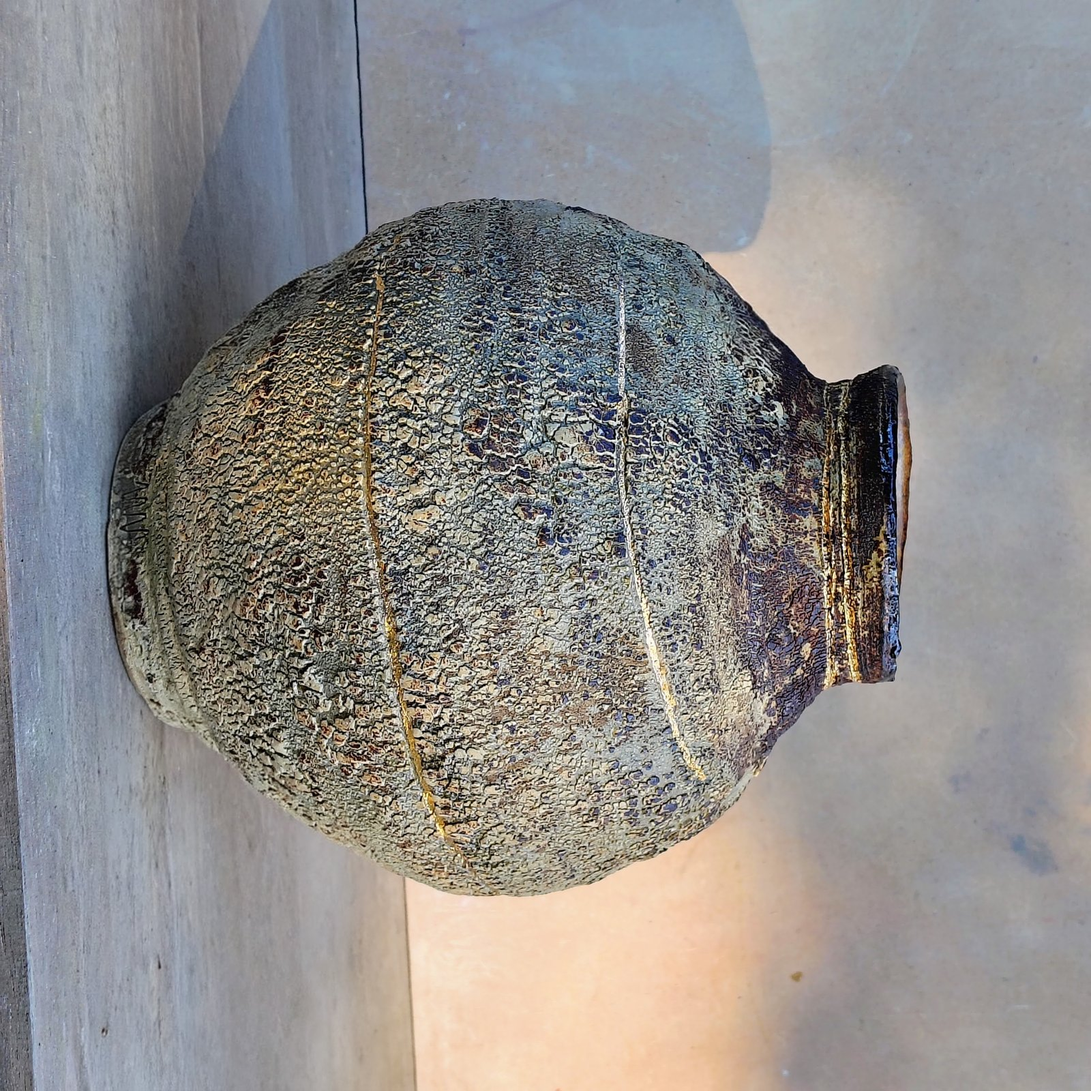
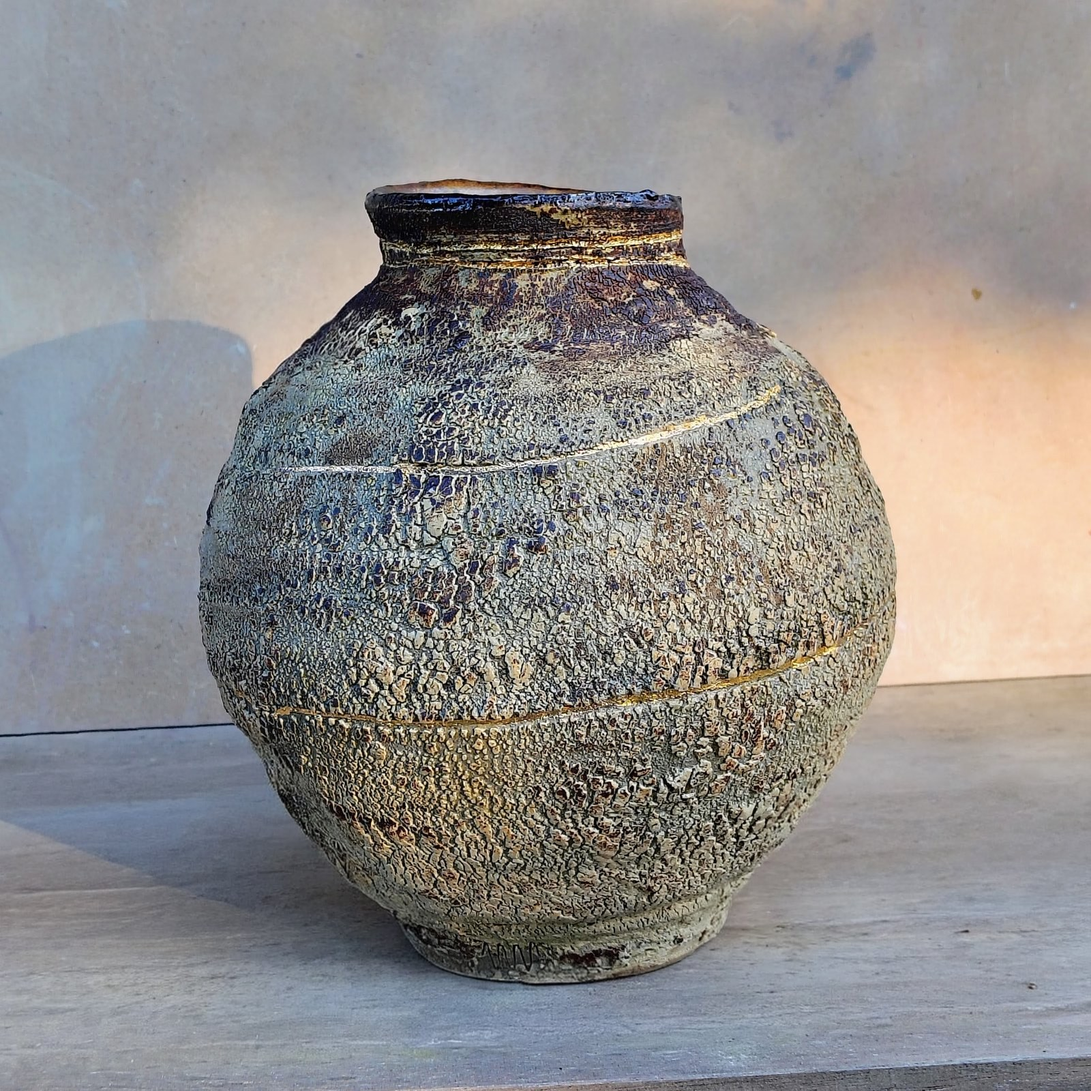
Bannerfoto's toegevoegd, workshopfoto's rechtgezet en per workshop geplaatst

diff --git a/workshops.html b/workshops.html
@@ -55,25 +55,27 @@
   </div>
 </section>
 
-<section class="sectie-lijn">
-  <div class="wrap"><div class="strook"><img src="images/raku-stook.jpg" alt="Raku-stook: roodgloeiende potten uit de oven" loading="lazy"><img src="images/raku-rookton.jpg" alt="Potten in de Raku-rookton" loading="lazy"><img src="images/raku-resultaat.jpg" alt="Resultaat van een Raku-stook" loading="lazy"><img src="images/workshop-textuur.jpg" alt="Draaien met textuur op de draaischijf" loading="lazy"></div></div>
-</section>
-
-<section class="sectie-lijn"><div class="wrap"><div class="tekstblok"><h2>Raku, Obvara en Saggar</h2><p>Breng je bisquit gebakken werkstukken mee om te glazuren en stoken gedurende de workshop (3 stuks, max 20 cm hoog, max 20 cm diameter — meer stukken kunnen als het ovenplaatoppervlak maximaal overeen blijft komen met de 3× diameter 20 cm).</p>
+<section class="sectie-lijn sectie-banner"><div class="banner" style="--beeld:url(images/raku-banner.jpg)"><h2>Raku, Obvara en Saggar</h2></div><div class="wrap"><div class="tekstblok"><p>Breng je bisquit gebakken werkstukken mee om te glazuren en stoken gedurende de workshop (3 stuks, max 20 cm hoog, max 20 cm diameter — meer stukken kunnen als het ovenplaatoppervlak maximaal overeen blijft komen met de 3× diameter 20 cm).</p>
 <p>Als klei kies je best voor een zwaarder gechammotteerde klei (minstens 40% 0,5 mm of 25% 1 mm) of een klei met hoog aluminiumgehalte (bijvoorbeeld door toevoeging van 30% zilverzand). Voor draaiers is de zware chamotte niet altijd even praktisch, maar zorg zeker voor chamotte in je klei, en voor gecomprimeerde randen (laat de laatste beweging bij het draaien een sluitende beweging zijn).</p>
 <p>Voor de personen die zelf geen bisquit gebakken potten beschikbaar hebben, maar zich toch willen onderdompelen in de wondere wereld van Raku, Obvara en Saggar, heb ik potjes beschikbaar aan 10–20 €/stuk al naargelang de grootte.</p><h3>Hoe ziet een typische raku-dag eruit?</h3>
 <p>We starten om 10u met een woordje uitleg over Raku, Obvara en Saggar, gevolgd door het glazuren en voorbereiden van de bisquit gebakken potten. Rond 11u30 gaan de ovens aan, terwijl we lunchen (lunch zelf mee te brengen, of wij voorzien een broodje voor jou aan kostprijs). We stoken de potten tot ongeveer 1000 °C.</p>
 <p>Na het stoken komt het spektakel: de potten worden roodgloeiend uit de oven gehaald en gaan in de Raku-rookton of de Obvara-soep. Alles gebeurt uiteraard buiten (afgelasting mogelijk bij slecht weer). De dag sluiten we af rond 17–18u, afhankelijk van het aantal deelnemers en de grootte van het keramiekwerk.</p>
-<p>Andere formules zijn ook mogelijk, zoals een avondsessie waarbij we — omwille van de beperktere tijd — focussen op Raku. Een avondsessie loopt typisch van 17u30 tot ongeveer 22u.</p></div><ul class="feiten"><li><b>Duur</b><span>Volledige dag, 10u – 17/18u (avondsessie: 17u30 – 22u)</span></li>
+<p>Andere formules zijn ook mogelijk, zoals een avondsessie waarbij we — omwille van de beperktere tijd — focussen op Raku. Een avondsessie loopt typisch van 17u30 tot ongeveer 22u.</p></div><div style="margin-top:26px"><div class="galerij">
+  <figure><button type="button" data-licht data-bijschrift="Gedraaide pot met diepe, blokkerige textuur"><img src="images/raku-stook.jpg" alt="Gedraaide pot met diepe, blokkerige textuur" loading="lazy"></button><figcaption>Gedraaide pot met diepe, blokkerige textuur</figcaption></figure>
+  <figure><button type="button" data-licht data-bijschrift="Kom met groene glazuur over een reliëfpatroon"><img src="images/raku-rookton.jpg" alt="Kom met groene glazuur over een reliëfpatroon" loading="lazy"></button><figcaption>Kom met groene glazuur over een reliëfpatroon</figcaption></figure>
+  <figure><button type="button" data-licht data-bijschrift="Pot met fijne craquelé-achtige oppervlaktetextuur"><img src="images/raku-resultaat.jpg" alt="Pot met fijne craquelé-achtige oppervlaktetextuur" loading="lazy"></button><figcaption>Pot met fijne craquelé-achtige oppervlaktetextuur</figcaption></figure>
+</div></div><ul class="feiten"><li><b>Duur</b><span>Volledige dag, 10u – 17/18u (avondsessie: 17u30 – 22u)</span></li>
 <li><b>Meebrengen</b><span>3 bisquit gebakken stukken, max 20 cm hoog en breed</span></li>
 <li><b>Klei</b><span>Zwaar gechamotteerd of hoog aluminiumgehalte</span></li>
 <li><b>Potjes ter plaatse</b><span>10–20 € per stuk</span></li></ul></div></section>
 
-<section class="sectie-lijn"><div class="wrap"><div class="tekstblok"><h2>Draaien met textuur</h2><p>We gaan dieper in op hoe je vormen met mooie, ruwe texturen kan draaien op de draaischijf. Tijdens de workshop kruipen we achter de draaischijf en gaan we experimenteren.</p>
+<section class="sectie-lijn sectie-banner"><div class="banner" style="--beeld:url(images/textuur-banner.jpg)"><h2>Draaien met textuur</h2></div><div class="wrap"><div class="tekstblok"><p>We gaan dieper in op hoe je vormen met mooie, ruwe texturen kan draaien op de draaischijf. Tijdens de workshop kruipen we achter de draaischijf en gaan we experimenteren.</p>
 <p>We gaan aan de slag met waterglas, kleipoeder, slibs, massagerollertjes, kaasschaven, enzovoort. Om deel te kunnen nemen aan deze workshop moet je vlot met 1 kg klei aan de slag kunnen op de draaischijf, zodat we voldoende kunnen focussen op de textuurtechnieken zelf.</p>
 <p>Deze workshop kan ik in jouw atelier komen geven voor maximaal 10 personen.</p><h3>Dit breng je zelf mee</h3>
 <ul><li>handdoek en schort</li><li>dozen, bakken … om je pas gedraaide stukken mee naar huis te nemen (tip: draai je op je eigen bats, dan kan je de stukken daarop meenemen)</li><li>lunchpakket</li></ul><h3>Ik zorg voor</h3>
-<ul><li>de specifieke tools en producten</li></ul></div><ul class="feiten"><li><b>Duur</b><span>Volledige dag, 10u – 16u30</span></li>
+<ul><li>de specifieke tools en producten</li></ul></div><div style="margin-top:26px"><div class="galerij">
+  <figure><button type="button" data-licht data-bijschrift="Bolle pot met ruwe textuur en smalle hals"><img src="images/workshop-textuur.jpg" alt="Bolle pot met ruwe textuur en smalle hals" loading="lazy"></button><figcaption>Bolle pot met ruwe textuur en smalle hals</figcaption></figure>
+</div></div><ul class="feiten"><li><b>Duur</b><span>Volledige dag, 10u – 16u30</span></li>
 <li><b>Groepsgrootte</b><span>Maximaal 10 personen</span></li>
 <li><b>Niveau</b><span>Je draait vlot met 1 kg klei</span></li>
 <li><b>Locatie</b><span>Op verplaatsing, in jouw atelier</span></li></ul></div></section>

diff --git a/borden.html b/borden.html
@@ -103,9 +103,9 @@
   </div>
 </section>
 
-<section class="sectie-lijn">
+<section class="sectie-lijn sectie-banner"><div class="banner" style="--beeld:url(images/borden-banner.jpg)"><h2>Wat moet je weten als je wil bestellen</h2></div>
   <div class="wrap">
-    <div class="tekstblok"><h2>Wat moet je weten als je wil bestellen</h2><p>Bij ClayWaves koop je ambachtelijk vakmanschap. Onze borden worden met liefde en zorg met de hand gemaakt, speciaal voor jou. We hebben geen voorraad liggen, omdat elk bord uniek is en aandacht verdient.</p></div>
+    <div class="tekstblok"><p>Bij ClayWaves koop je ambachtelijk vakmanschap. Onze borden worden met liefde en zorg met de hand gemaakt, speciaal voor jou. We hebben geen voorraad liggen, omdat elk bord uniek is en aandacht verdient.</p></div>
     <div class="kaarten" style="margin-top:26px"><article class="kaart"><h3>Uniek en persoonlijk</h3><p>Elk bord vertelt een verhaal. Geen twee zijn hetzelfde. Jouw bestelling wordt met precisie en passie vervaardigd.</p></article>
 <article class="kaart"><h3>Kwaliteit</h3><p>We gebruiken alleen hoogwaardige materialen. Onze borden zijn duurzaam en gaan lang mee. Ze zijn vaatwasbestendig en je kan ze in de microgolfoven gebruiken (een heteluchtoven raden we af).</p></article>
 <article class="kaart"><h3>Geduld en tijd</h3><p>Omdat we elk bord op bestelling maken, vragen we je rekening te houden met een levertijd van ongeveer vier maanden. Goede dingen kosten tijd, en we willen ervoor zorgen dat jouw bord perfect is.</p></article></div>

diff --git a/assets/style.css b/assets/style.css
@@ -138,6 +138,33 @@ p:last-child { margin-bottom: 0; }
 .hero-beeld { position: relative; }
 .hero-beeld img { width: 100%; aspect-ratio: 4 / 5; object-fit: cover; border-radius: var(--radius); }
 
+/* ------------------------------------------------------------- banners */
+
+.banner {
+  position: relative;
+  width: 100%;
+  aspect-ratio: 32 / 9;
+  min-height: 180px;
+  max-height: 380px;
+  background-color: var(--papier-diep);
+  background-image: var(--beeld);
+  background-size: cover;
+  background-position: center;
+  background-repeat: no-repeat;
+  display: grid;
+  place-items: center;
+  margin-bottom: clamp(26px, 4vw, 46px);
+}
+.banner h2 {
+  margin: 0;
+  background: rgba(251, 249, 245, .93);
+  padding: 12px clamp(18px, 4vw, 44px);
+  text-align: center;
+  max-width: min(90%, 760px);
+  border-radius: var(--radius);
+}
+.sectie-banner { padding-top: 0; }
+
 /* ------------------------------------------------------------- secties */
 
 section { padding: clamp(34px, 5vw, 58px) 0; }

diff --git a/generate.py b/generate.py
@@ -142,6 +142,12 @@ def schrijf(pad, titel, beschrijving, romp):
     print("  geschreven:  %s" % pad)
 
 
+def banner(naam, titel):
+    """Brede bannerfoto met de sectietitel erover, zoals op de oude site."""
+    return ('<div class="banner" style="--beeld:url(%s)"><h2>%s</h2></div>'
+            % (e(beeldpad(naam)), e(titel)))
+
+
 def galerij(beelden):
     stukken = []
     for naam, alt in beelden:
@@ -260,16 +266,27 @@ def bouw_workshops():
             extra += "<h3>%s</h3>\n<ul>%s</ul>" % (
                 e(kop), "".join("<li>%s</li>" % e(p) for p in punten)
             )
-        blokken.append(
-            '<section class="sectie-lijn"><div class="wrap">'
-            '<div class="tekstblok"><h2>%s</h2>%s%s</div>'
-            '<ul class="feiten">%s</ul>'
-            '</div></section>' % (e(item["titel"]), paragrafen(item["tekst"]), extra, feiten)
-        )
+        beelden = ""
+        if item.get("beelden"):
+            beelden = '<div style="margin-top:26px">%s</div>' % galerij(item["beelden"])
 
-    strook = "".join(
-        '<img src="%s" alt="%s" loading="lazy">' % (e(beeldpad(n)), e(a)) for n, a in w["beelden"]
-    )
+        if item.get("banner"):
+            kop = banner(item["banner"], item["titel"])
+            klasse = "sectie-lijn sectie-banner"
+            titelblok = ""
+        else:
+            kop = ""
+            klasse = "sectie-lijn"
+            titelblok = "<h2>%s</h2>" % e(item["titel"])
+
+        blokken.append(
+            '<section class="%s">%s<div class="wrap">'
+            '<div class="tekstblok">%s%s%s</div>'
+            '%s'
+            '<ul class="feiten">%s</ul>'
+            '</div></section>' % (klasse, kop, titelblok, paragrafen(item["tekst"]),
+                                  extra, beelden, feiten)
+        )
 
     romp = """<section class="hero">
   <div class="wrap smal">
@@ -286,12 +303,8 @@ def bouw_workshops():
   </div>
 </section>
 
-<section class="sectie-lijn">
-  <div class="wrap"><div class="strook">%(strook)s</div></div>
-</section>
-
 %(blokken)s
-""" % {"intro": e(w["intro"]), "agenda": agenda, "strook": strook, "blokken": "\n\n".join(blokken)}
+""" % {"intro": e(w["intro"]), "agenda": agenda, "blokken": "\n\n".join(blokken)}
     schrijf("workshops.html", w["title"], w["description"], romp)
 
 
@@ -346,9 +359,9 @@ def bouw_borden():
 
 %(reeksen)s
 
-<section class="sectie-lijn">
+<section class="%(bklasse)s">%(bbanner)s
   <div class="wrap">
-    <div class="tekstblok"><h2>%(bkop)s</h2>%(bintro)s</div>
+    <div class="tekstblok">%(btitel)s%(bintro)s</div>
     <div class="kaarten" style="margin-top:26px">%(punten)s</div>
     <h3 style="margin-top:44px">%(skop)s</h3>
     <ol class="stappen">%(stappen)s</ol>
@@ -358,7 +371,10 @@ def bouw_borden():
 </section>
 """ % {
         "intro": e(b["intro"]), "reeksen": "\n\n".join(reeksen),
-        "bkop": e(best["kop"]), "bintro": paragrafen(best["intro"]),
+        "bklasse": "sectie-lijn sectie-banner" if best.get("banner") else "sectie-lijn",
+        "bbanner": banner(best["banner"], best["kop"]) if best.get("banner") else "",
+        "btitel": "" if best.get("banner") else "<h2>%s</h2>" % e(best["kop"]),
+        "bintro": paragrafen(best["intro"]),
         "punten": punten, "skop": e(best["stappen_kop"]), "stappen": stappen,
         "slot": e(best["slot"]),
     }
@@ -474,9 +490,14 @@ def main():
 def controleer_beelden():
     nodig = ["claywaves-logo.jpg", C.HOME["hero_beeld"]]
     nodig += [s["beeld"] for s in C.HOME["secties"] if s.get("beeld")]
-    nodig += [n for n, _ in C.WORKSHOPS["beelden"]]
+    for item in C.WORKSHOPS["items"]:
+        nodig += [n for n, _ in item.get("beelden", [])]
+        if item.get("banner"):
+            nodig.append(item["banner"])
     for r in C.BORDEN["reeksen"]:
         nodig += [n for n, _ in r["beelden"]]
+    if C.BORDEN["bestellen"].get("banner"):
+        nodig.append(C.BORDEN["bestellen"]["banner"])
     return [n for n in dict.fromkeys(nodig) if not (ROOT / "images" / n).exists()]
 
 

diff --git a/scripts/download_images.py b/scripts/download_images.py
@@ -30,10 +30,10 @@ BEELDEN = [
     ("ClayWaves logo.jpg",                          "claywaves-logo.jpg",     ""),
     ("2023-09-01 21.02.14.jpg",                     "atelier-werk.jpg",       ""),
     ("WhatsApp Image 2023-08-27 at 15.50.30.jpeg",  "werk-detail.jpg",        ""),
-    ("2023-05-21 12.28.02-1.jpg",                   "raku-stook.jpg",         "&rotate=90"),
-    ("2023-06-11 19.40.22.jpg",                     "raku-rookton.jpg",       ""),
+    ("2023-05-21 12.28.02-1.jpg",                   "raku-stook.jpg",         ""),
+    ("2023-06-11 19.40.22.jpg",                     "raku-rookton.jpg",       "&rotate=90"),
     ("2023-06-11 19.39.23.jpg",                     "raku-resultaat.jpg",     "&rotate=90"),
-    ("2024-09-15 09.04.28-1.jpg",                   "workshop-textuur.jpg",   "&rotate=90"),
+    ("2024-09-15 09.04.28-1.jpg",                   "workshop-textuur.jpg",   ""),
 
     ("graniet overzicht.jpg",                       "graniet-overzicht.jpg",  ""),
     ("graniet gestapeld.jpg",                       "graniet-gestapeld.jpg",  ""),
@@ -56,10 +56,23 @@ BEELDEN = [
     ("natuur rivierbodem.jpg",                      "natuur-rivierbodem.jpg", ""),
     ("natuur rots.jpg",                             "natuur-rots.jpg",        ""),
     ("natuur strand.jpg",                           "natuur-strand.jpg",      ""),
+
+    # Bannerfoto's — stonden op de oude site als achtergrond boven een sectie.
+    # Alles wat op "-banner.jpg" eindigt wordt breed opgehaald in plaats van vierkant.
+    ("2023-04-16 18.15.19.jpg",                     "raku-banner.jpg",        ""),
+    ("2023-05-04 22.02.54.jpg",                     "textuur-banner.jpg",     ""),
+    ("IMG_0096 2.jpg",                              "borden-banner.jpg",      ""),
 ]
 
-# Maximaal 1600 px breed/hoog — ruim genoeg voor het web, en veel lichter.
+# Maximaal 1600 px — ruim genoeg voor het web, en veel lichter.
+# LET OP: one.com levert hiermee een vierkante uitsnede (1600x1600), gecentreerd.
+# Voor deze site geeft dat geen zichtbaar verschil, want alle foto's worden
+# vierkant of bijna-vierkant getoond. Wil je de volledige beelduitsnede, zet dan
+# je eigen originelen in images/ onder dezelfde bestandsnamen.
 PARAMS = "?withoutEnlargement&resize=1600,1600&quality=85"
+
+# Banners zijn breed, niet vierkant.
+PARAMS_BANNER = "?withoutEnlargement&resize=2200,1000&quality=82"
 
 
 def plaatshouders():
@@ -81,7 +94,8 @@ def main():
             print("  bestaat al:  %s" % naam)
             ok += 1
             continue
-        url = BASIS + urllib.parse.quote(bron) + PARAMS + extra
+        basis_params = PARAMS_BANNER if naam.endswith("-banner.jpg") else PARAMS
+        url = BASIS + urllib.parse.quote(bron) + basis_params + extra
         try:
             verzoek = urllib.request.Request(url, headers={"User-Agent": "Mozilla/5.0"})
             with urllib.request.urlopen(verzoek, timeout=45) as r:

diff --git a/content/content.py b/content/content.py
@@ -189,15 +189,17 @@ WORKSHOPS = {
              "wouter@claywaves.be.",
     "agenda_leeg": "Er staan op dit moment geen publieke data gepland. Wil je een workshop "
                    "hosten of op de hoogte blijven van nieuwe data? Stuur een bericht.",
-    "beelden": [
-        ("raku-stook.jpg", "Raku-stook: roodgloeiende potten uit de oven"),
-        ("raku-rookton.jpg", "Potten in de Raku-rookton"),
-        ("raku-resultaat.jpg", "Resultaat van een Raku-stook"),
-        ("workshop-textuur.jpg", "Draaien met textuur op de draaischijf"),
-    ],
     "items": [
         {
             "titel": "Raku, Obvara en Saggar",
+            "banner": "raku-banner.jpg",
+            # Foto's bij deze workshop. Staat een foto bij de verkeerde workshop,
+            # verplaats dan gewoon de regel naar de andere "beelden"-lijst.
+            "beelden": [
+                ("raku-stook.jpg", "Gedraaide pot met diepe, blokkerige textuur"),
+                ("raku-rookton.jpg", "Kom met groene glazuur over een reliëfpatroon"),
+                ("raku-resultaat.jpg", "Pot met fijne craquelé-achtige oppervlaktetextuur"),
+            ],
             "tekst": [
                 "Breng je bisquit gebakken werkstukken mee om te glazuren en stoken gedurende "
                 "de workshop (3 stuks, max 20 cm hoog, max 20 cm diameter — meer stukken "
@@ -238,6 +240,10 @@ WORKSHOPS = {
         },
         {
             "titel": "Draaien met textuur",
+            "banner": "textuur-banner.jpg",
+            "beelden": [
+                ("workshop-textuur.jpg", "Bolle pot met ruwe textuur en smalle hals"),
+            ],
             "tekst": [
                 "We gaan dieper in op hoe je vormen met mooie, ruwe texturen kan draaien op de "
                 "draaischijf. Tijdens de workshop kruipen we achter de draaischijf en gaan we "
@@ -357,6 +363,7 @@ BORDEN = {
     ],
     "bestellen": {
         "kop": "Wat moet je weten als je wil bestellen",
+        "banner": "borden-banner.jpg",
         "intro": [
             "Bij ClayWaves koop je ambachtelijk vakmanschap. Onze borden worden met liefde en "
             "zorg met de hand gemaakt, speciaal voor jou. We hebben geen voorraad liggen, "

diff --git a/scripts/maak_placeholders.py b/scripts/maak_placeholders.py
@@ -61,15 +61,23 @@ def main():
     DOEL.mkdir(exist_ok=True)
     nodig = ["claywaves-logo.jpg", C.HOME["hero_beeld"]]
     nodig += [s["beeld"] for s in C.HOME["secties"] if s.get("beeld")]
-    nodig += [n for n, _ in C.WORKSHOPS["beelden"]]
+    for item in C.WORKSHOPS["items"]:
+        nodig += [n for n, _ in item.get("beelden", [])]
+        if item.get("banner"):
+            nodig.append(item["banner"])
     for r in C.BORDEN["reeksen"]:
         nodig += [n for n, _ in r["beelden"]]
+    if C.BORDEN["bestellen"].get("banner"):
+        nodig.append(C.BORDEN["bestellen"]["banner"])
 
     gemaakt = []
     for naam in dict.fromkeys(nodig):
         if (DOEL / naam).exists():
             continue
-        maak(naam)
+        if naam.endswith("-banner.jpg"):
+            maak(naam, 1800, 560)
+        else:
+            maak(naam)
         gemaakt.append(naam)
 
     if gemaakt:
